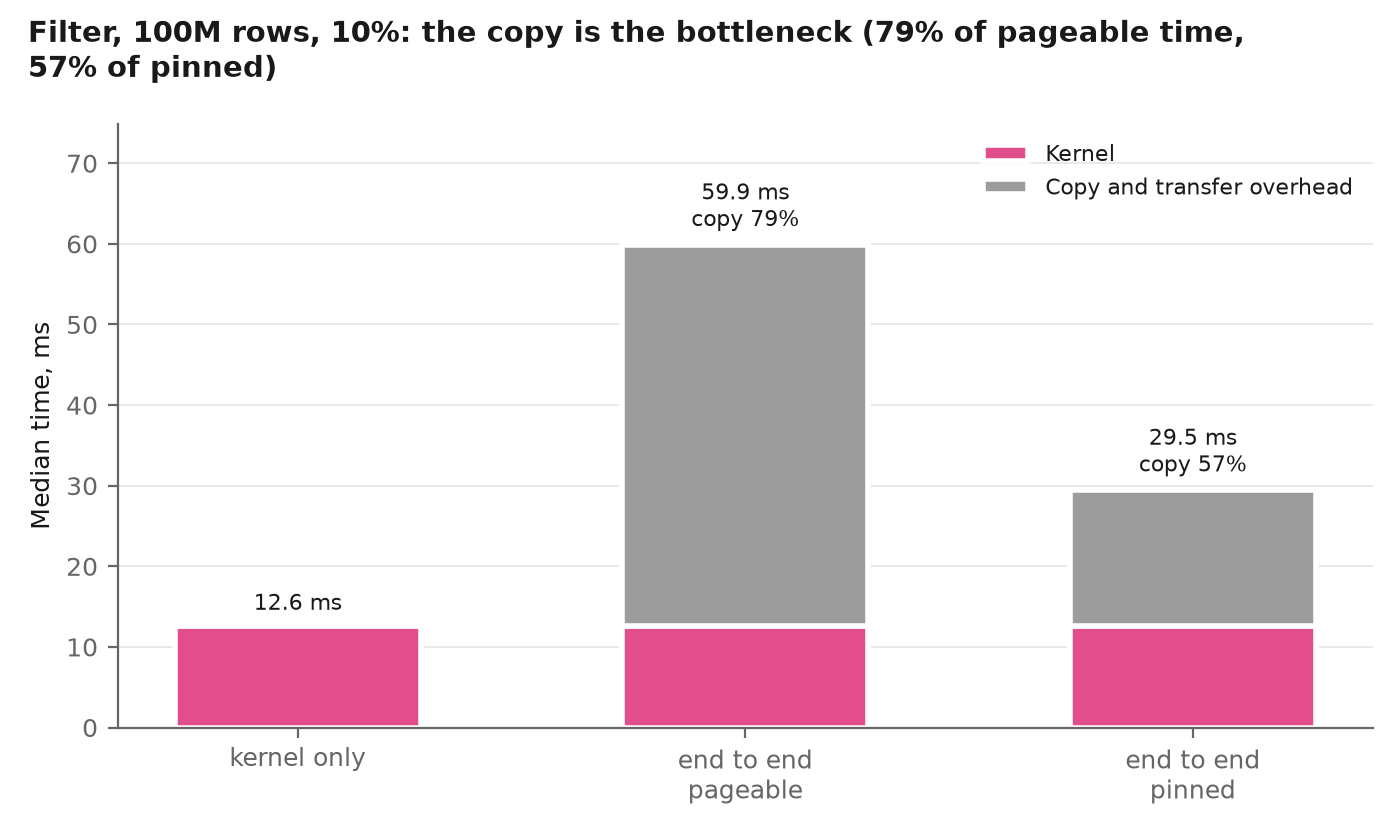
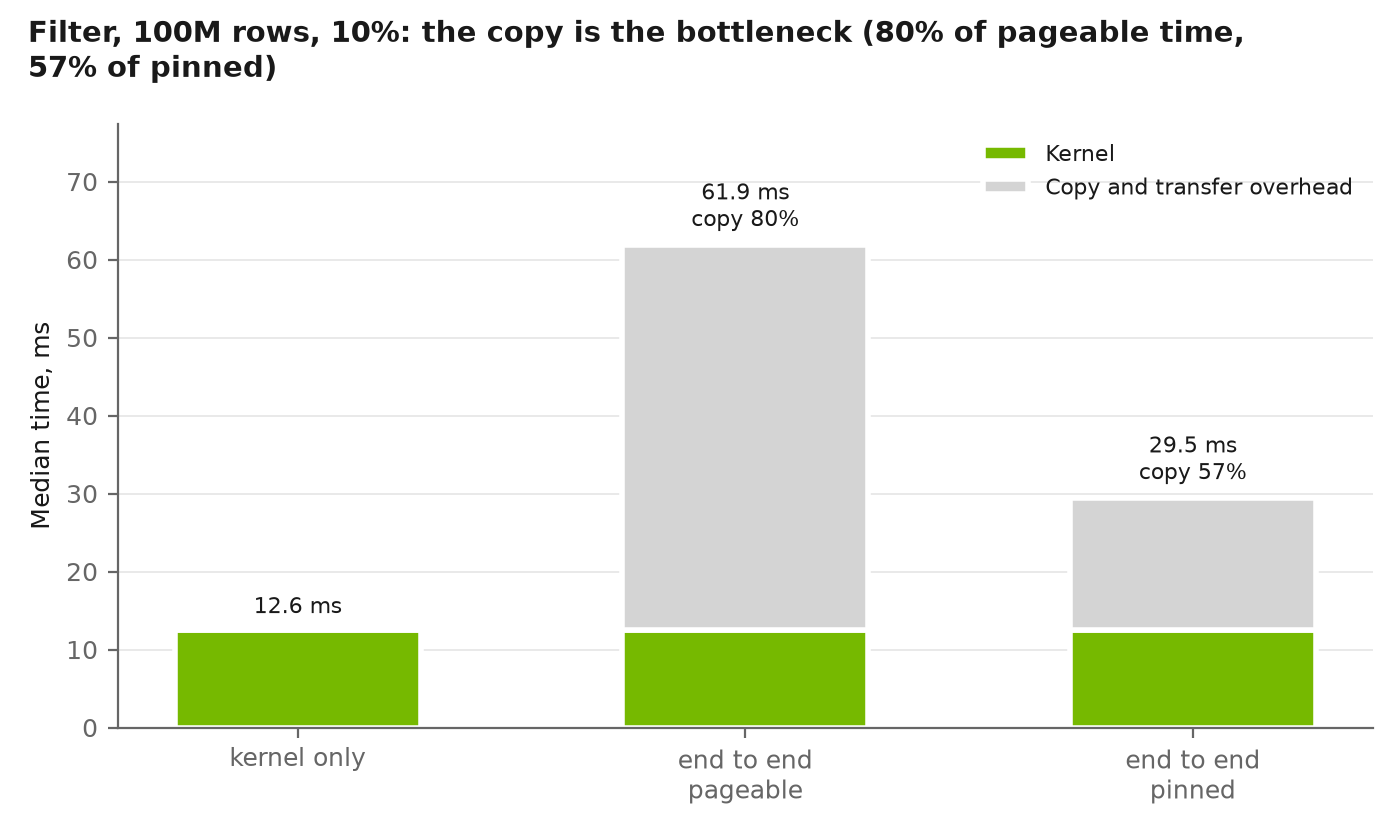
Recolor charts: GPU in NVIDIA green, CPU engines in slate greys
plot.py: GPU #76B900 (dashed for pageable and global), pandas, Polars and
DuckDB in three slate greys with their own marker shapes. Copy bar is a
lighter grey. filter.csv: GPU pageable 100M at 10% rerun 3x, median
61.9 ms (was 59.9 ms).

diff --git a/benchmarks/plot.py b/benchmarks/plot.py
@@ -14,11 +14,13 @@ from matplotlib.ticker import FuncFormatter
 RESULTS = Path(__file__).parent / "results"
 FIGS = Path(__file__).parent.parent / "docs" / "figures"
 
-# One color per engine in every chart, from the dataviz reference palette. These four pass
-# the validator on ALL pairs (colorblind and normal vision, light surface). All GPU lines
-# share one color; line style tells GPU variants apart.
-COLOR = {"pandas": "#257de0", "polars": "#f2a600", "duckdb": "#008a17", "gpu": "#e24d8b"}
-COPY_GRAY = "#9c9c9c"  # not an engine: the copy part of a GPU bar
+# One color per engine in every chart: GPU in NVIDIA green, CPU engines in three slate greys.
+# The validator passes colorblind and normal-vision separation on ALL pairs; greys fail its
+# chroma floor by design, so each CPU engine also gets its own marker shape.
+# All GPU lines share one color; dashed = GPU pageable or GPU global.
+COLOR = {"pandas": "#334155", "polars": "#64748b", "duckdb": "#9aa5b1", "gpu": "#76b900"}
+MARKER = {"pandas": "s", "polars": "^", "duckdb": "D", "gpu": "o"}
+COPY_GRAY = "#d4d4d4"  # not an engine: the copy part of a GPU bar, lighter than the CPU greys
 TEXT, TEXT2, GRID = "#191919", "#666666", "#e5e5e5"
 LABEL = {"pandas": "pandas", "polars": "Polars", "duckdb": "DuckDB"}
 LABEL_GAP_PT = 12  # smallest vertical distance between two end labels
@@ -48,7 +50,7 @@ def plain_fmt(x, _):
 
 def line(ax, xs, ys, key, label, dashed=False):
     """2px line with markers. Returns its end point and label for end_labels()."""
-    ax.plot(xs, ys, color=COLOR[key], lw=2, ls="--" if dashed else "-", marker="o", ms=5,
+    ax.plot(xs, ys, color=COLOR[key], lw=2, ls="--" if dashed else "-", marker=MARKER[key], ms=5,
             mec="white", mew=1)
     return xs[-1], ys[-1], label
 

diff --git a/docs/known-issues.md b/docs/known-issues.md
@@ -12,7 +12,8 @@
 - Group-by output is in slot (hash) order, not key order.
 - CPU rerun, 3x each (2026-11-26): Polars 1K Zipf 100M 701/718/711 ms (repeats); Polars 1K 10M 49-55 ms uniform, 63-65 ms Zipf (repeats); DuckDB 1M uniform 100M 4175/6473/8673 ms (noisy, 2x spread; median of runs is within 5% of the CSV).
 - Filter crossover rerun at 10%, 3x each, medians in `filter.csv` (2026-11-26): 50M and 200M for all 5 lines, pandas 100M. The old 50M points were slow for every CPU engine (pandas 627 to 194 ms). pandas 100M has two modes (earlier runs 1676/1501/413, now 586/393/396 ms); the CSV has 396 ms.
-- GPU filter e2e_pageable still goes down from 50M to 100M (64.3 to 59.9 ms). The 50M runs had a wide spread (75/64/53 ms); 100M was not rerun. All other crossover lines go up with rows.
+- GPU filter e2e_pageable still goes down from 50M to 100M (64.3 to 61.9 ms). 100M rerun 3x (61.9/67.1/60.1 ms, median in CSV); 50M runs had a wide spread (75/64/53 ms), so 50M is the likely noisy point. All other crossover lines go up with rows.
+- Chart CPU greys fail the dataviz lightness band (darkest grey) and chroma floor (all greys) by design. Colorblind and normal-vision separation pass on all pairs; marker shapes are the second encoding.
 - Chart titles are fixed text. Rerun the benchmarks and the titles can be wrong.
 - Group-by rerun (2026-11-26, both strategies): the old GPU 10M 1K-groups point (7.7 ms) is now 1.99 ms, below e2e_pinned. Still suspect: Polars 1K Zipf at 100M is 710 ms vs 106 ms uniform (also 717 ms in the first run, so it repeats; cause unknown). Polars 1K groups at 10M is 48 ms, 4.8 ms per 1M rows, vs 1.1 ms per 1M rows at 100M. DuckDB 1M uniform groups at 100M is 6815 ms, 4x its Zipf time.
 - Group-by with 1M groups: the table is 2M slots x 16 bytes = 32 MB, about the size of the L2 cache, so the random atomics go to DRAM. That is why 1M groups is slower than 1K groups.

diff --git a/docs/decisions.md b/docs/decisions.md
@@ -22,5 +22,5 @@
 - Block group-by: each block takes 4096 rows (16 per thread), not 256. With one row per thread, a block sees at most 256 keys, so a 1024-slot table can never fill and there would be no fallback case to test.
 - Shared table: 1024 slots x 16 bytes = 16 KB per block. A row probes at most 32 shared slots, then goes straight to the global table, so a full shared table does not cost 1024 probes per row.
 - `groupby.csv` keeps one `engine` (`hash_groupby`) and adds a `strategy` column, so a filter on one column picks a strategy. CPU rows have `-`.
-- Charts: one fixed color per engine: pandas blue, Polars yellow, DuckDB green, GPU magenta. These four pass the dataviz validator on all pairs, not only adjacent ones. All GPU variants share magenta; dashed = pageable or global. No legend on line charts; end labels are pushed apart in screen points so none overlap. Copy time = e2e time minus kernel_only time, so it includes allocation overhead. Uniform vs Zipf use texture, not a second hue.
+- Charts: GPU in NVIDIA green #76B900, CPU engines in slate greys (pandas #334155, Polars #64748b, DuckDB #9aa5b1) with their own marker shapes, so the GPU stands out. Dashed = GPU pageable or GPU global. No legend on line charts; end labels are pushed apart in screen points so none overlap. Copy time = e2e time minus kernel_only time, so it includes allocation overhead. Uniform vs Zipf use texture, not a second hue.
 - One `__device__ add_global` for both strategies and for the flush, so there is only one global probe loop.

diff --git a/docs/progress.md b/docs/progress.md
@@ -18,7 +18,7 @@
 - Block vs global kernel_only: 10 groups 5.4 to 7.4x faster, 1K groups 1.3 to 1.8x faster, 1M groups uniform about equal (5.6% slower at 100M), 1M groups Zipf 2.8 to 3.1x faster.
 - Block e2e pinned now beats Polars at 10 groups: 5.1 vs 10.4 ms at 10M, 43.1 vs 88.4 ms at 100M (uniform), about 2x.
 - `benchmarks/plot.py` writes 4 PNGs to `docs/figures/` (filter crossover, filter time split, group-by by groups, block speedup).
-- Filter crossover points (10%, 50M, 100M pandas, 200M) rerun 3x; medians in `filter.csv`. Charts: new GPU color, no legends on line charts, end labels never overlap.
+- Filter crossover points (10%, 50M, 100M pandas, 200M) rerun 3x; medians in `filter.csv`. Charts: GPU NVIDIA green, CPU greys, no legends on line charts, end labels never overlap.
 - Reran suspect CPU points 3x each: none changed more than 20%, so `groupby.csv` stays.
 - /reflect: 4 new rules in CLAUDE.md (int64 sums in every engine, check cited paths with gh api, run new tests red first, racecheck and synccheck for kernels with barriers).
 
